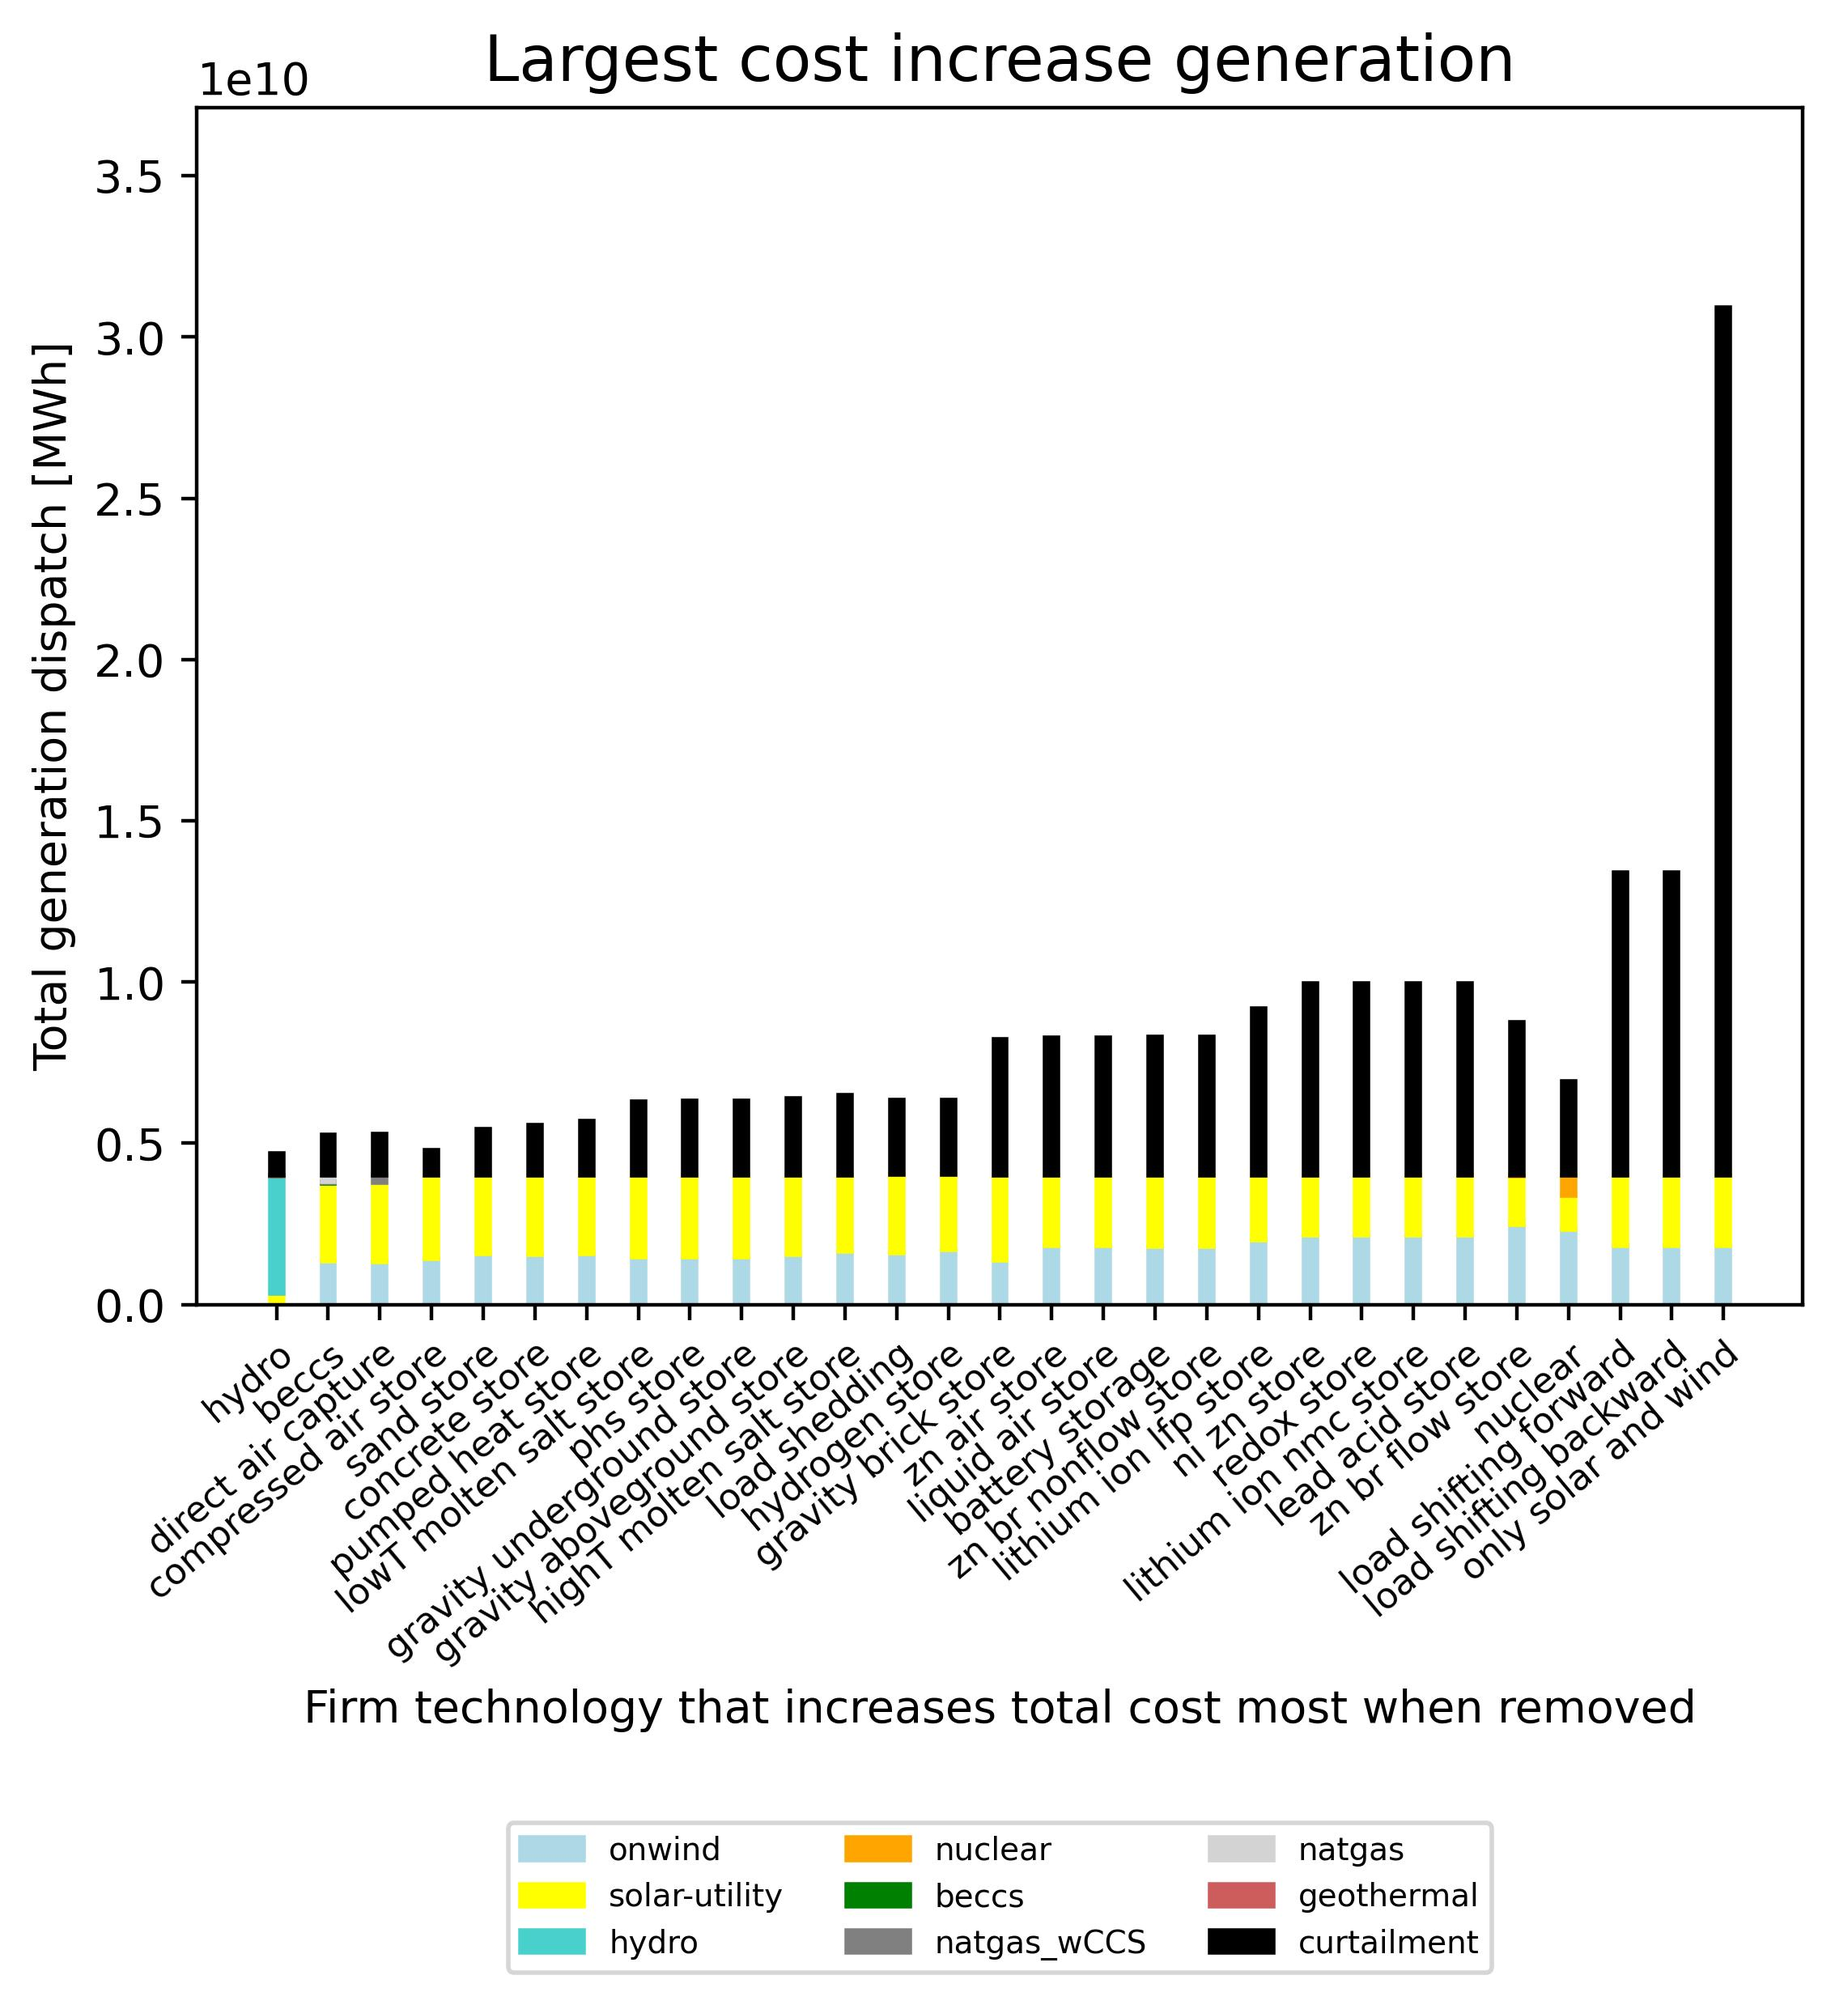
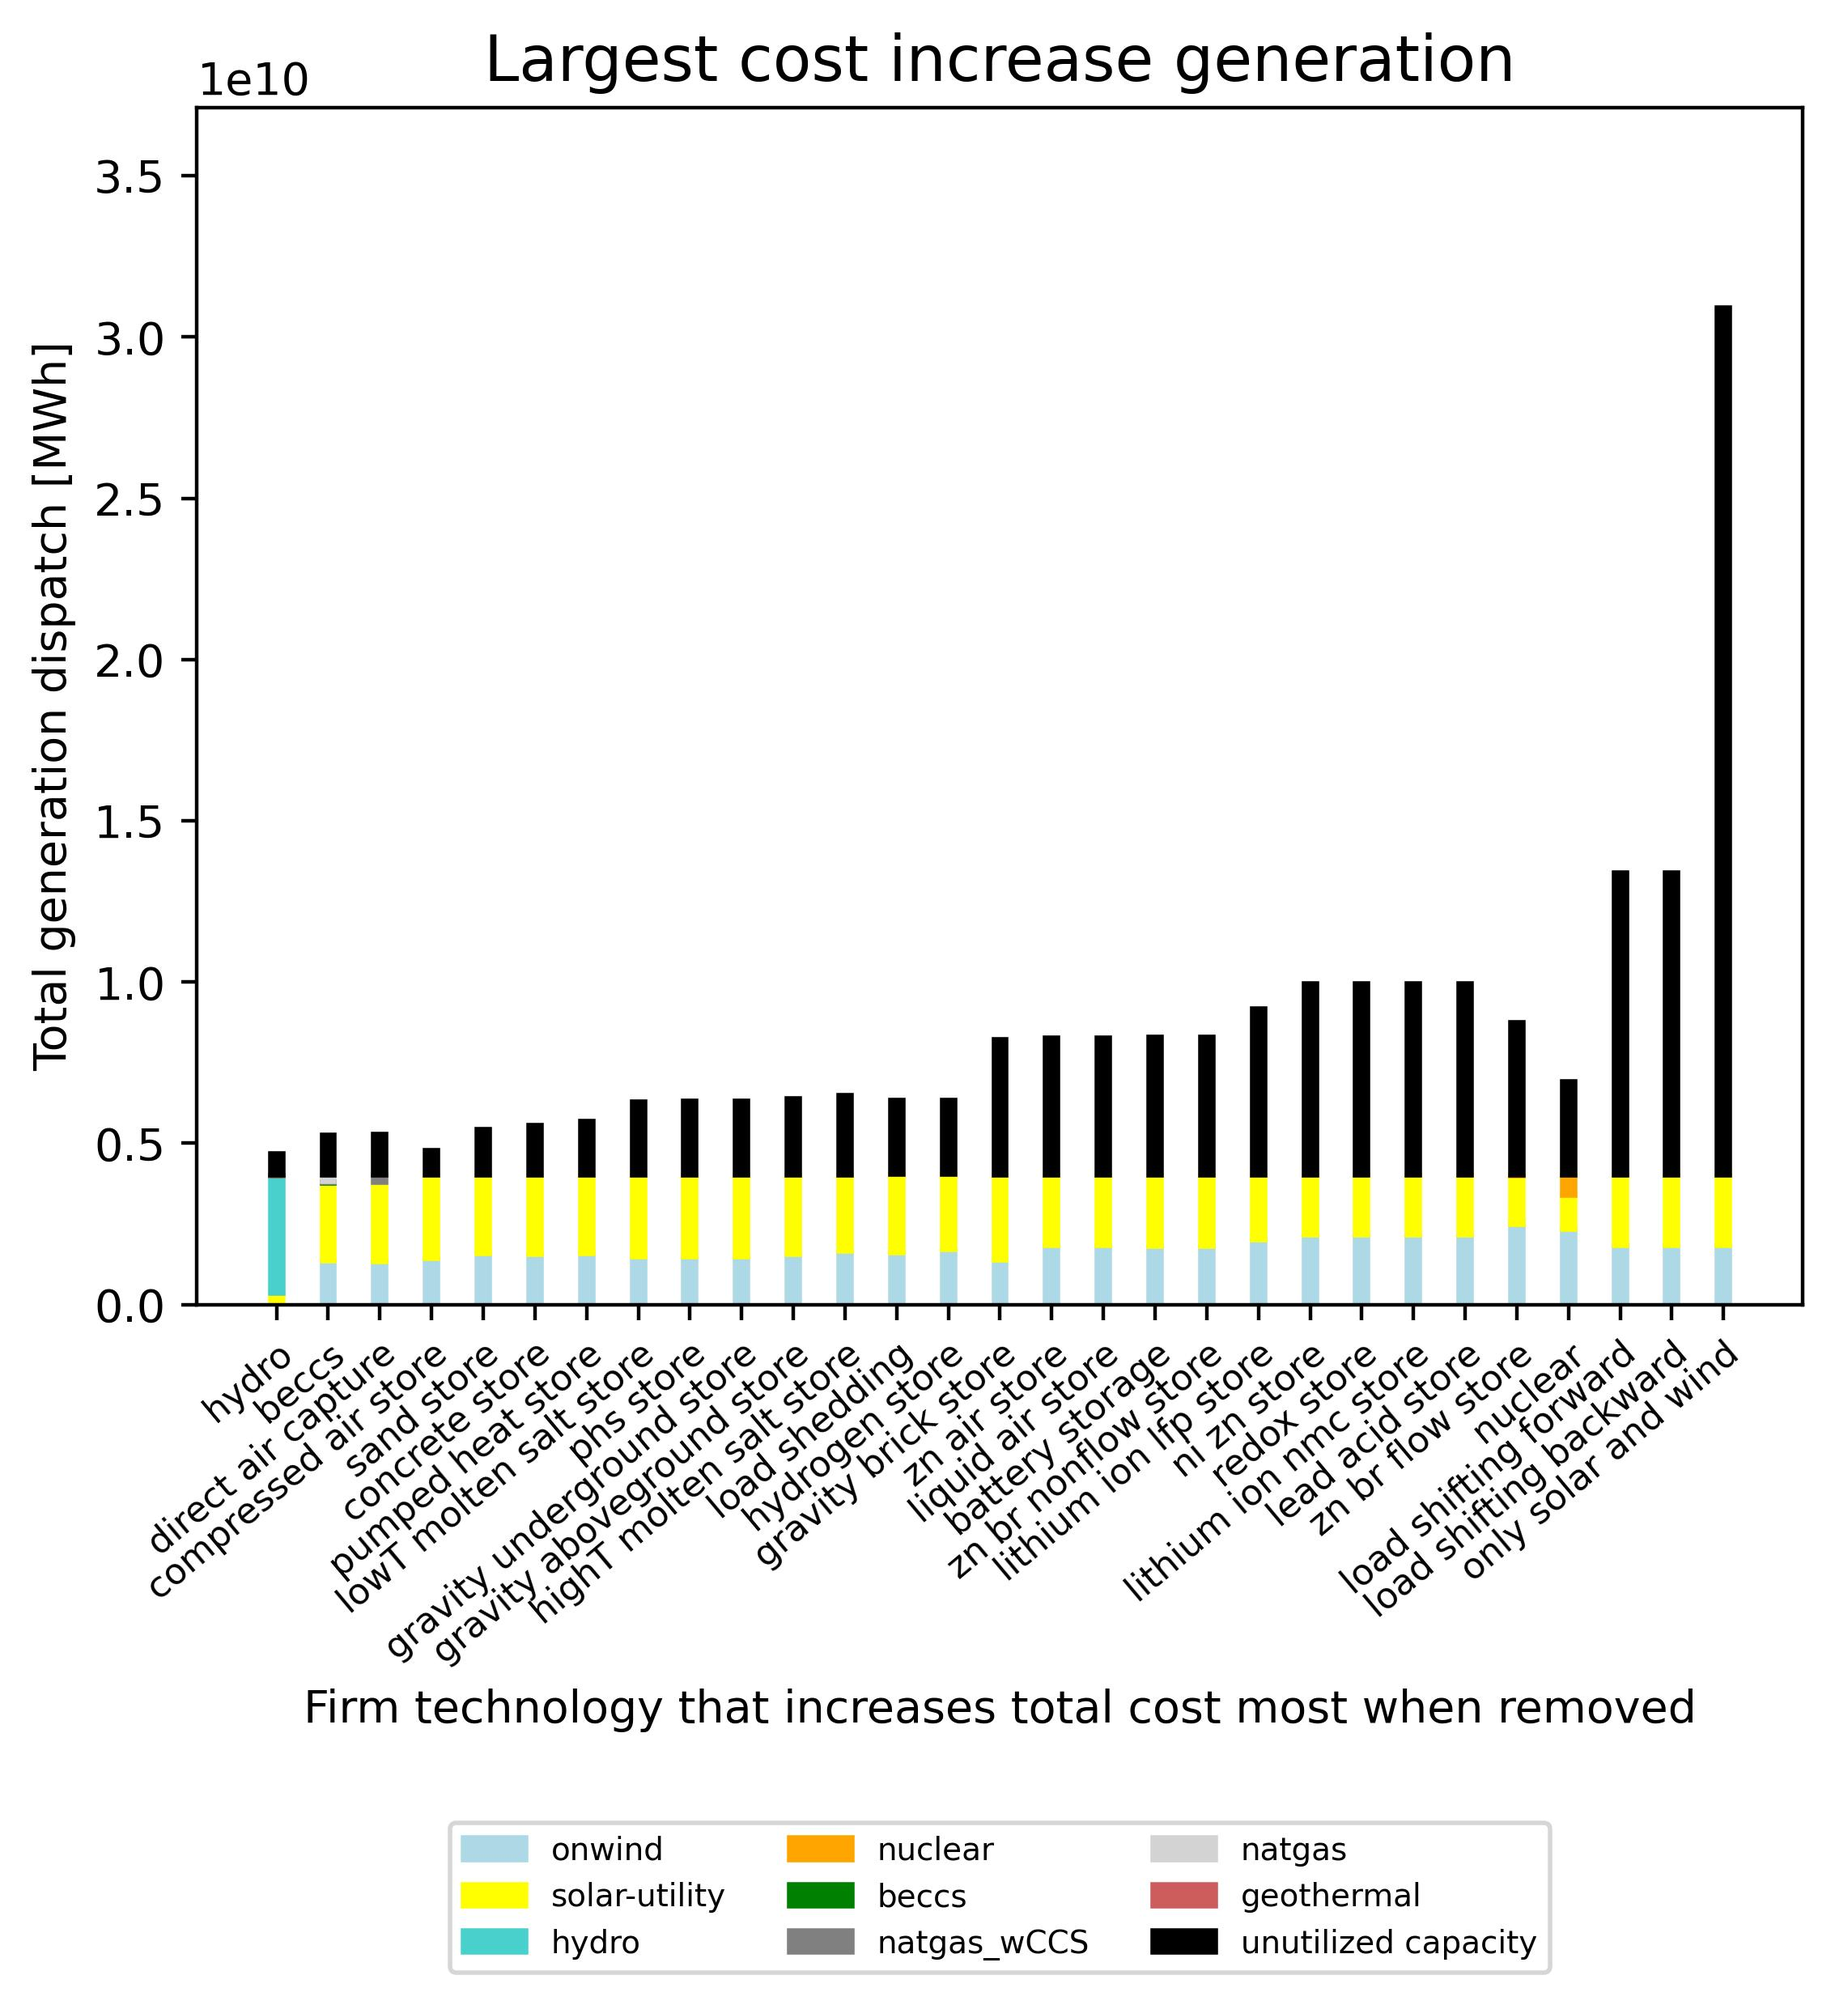
Curtailment -> Unutilized capacity

Changed region(s): [[0.247, 0.9015, 0.8337, 0.9948]]

diff --git a/utils/plotting_helpers.py b/utils/plotting_helpers.py
@@ -10,7 +10,7 @@ def get_hatching_color(component, technologies, color_dict):
             fill_color = hatch_color = 'lightblue'
         elif component == 'solar-utility':
             fill_color = hatch_color = 'yellow'
-        elif component == 'curtailment':
+        elif component == 'unutilized capacity':
             fill_color = 'black'
             hatch_color = 'black'
         else:

diff --git a/utils/read_results_helpers.py b/utils/read_results_helpers.py
@@ -83,7 +83,7 @@ def get_result(component_results, parameter, generators=None):
 
     result_dict = dict(zip(component_results.index, results))
     if parameter == 'dispatch':
-        result_dict['curtailment'] = tot_curtailment
+        result_dict['unutilized capacity'] = tot_curtailment
     return result_dict
 
 
